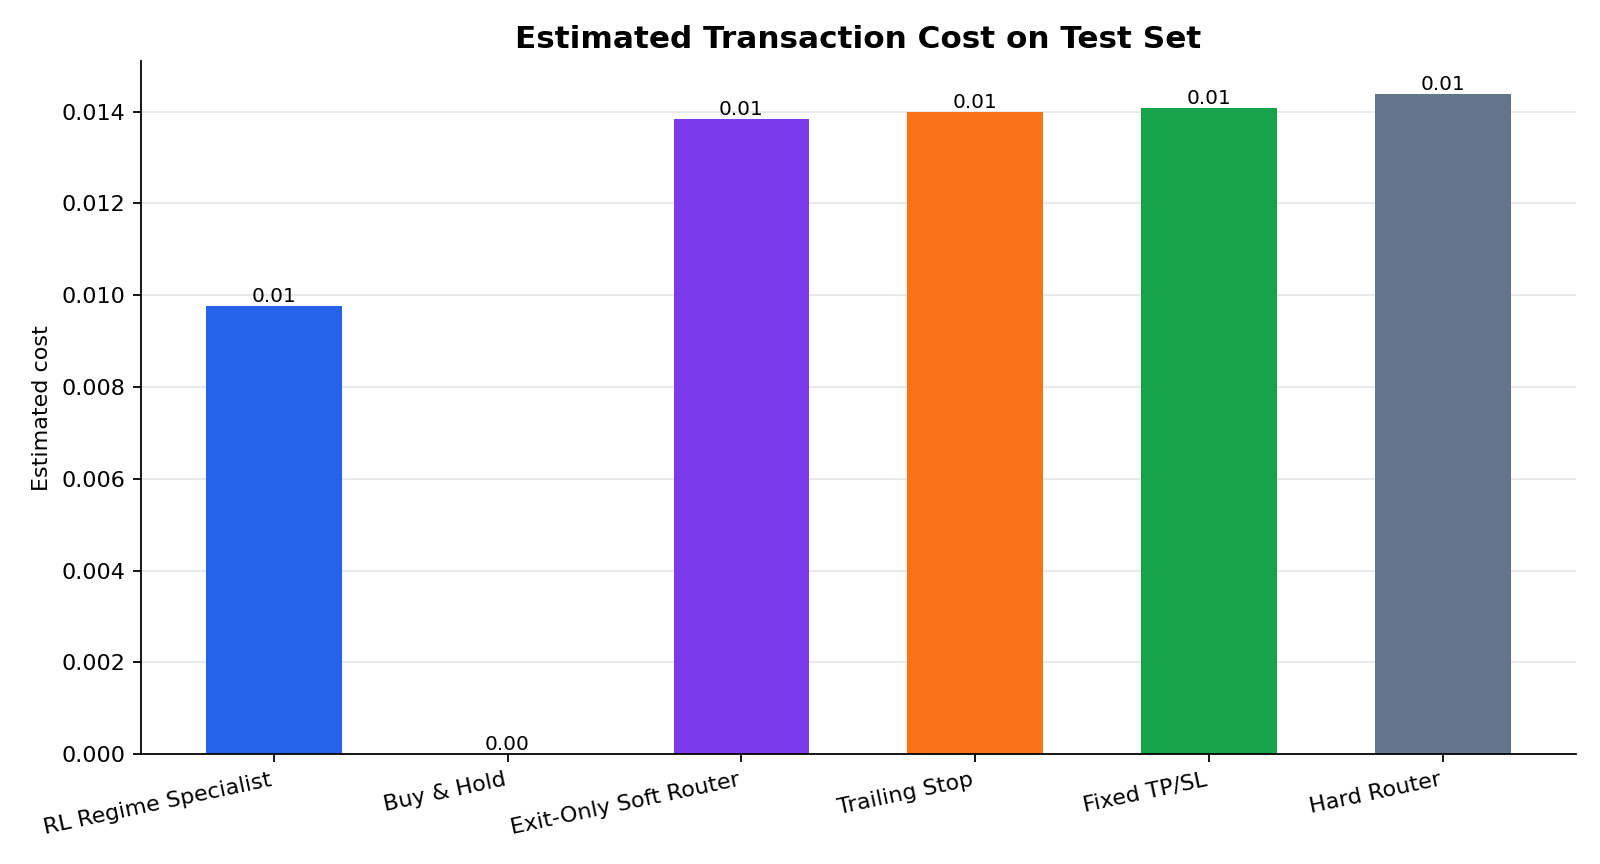
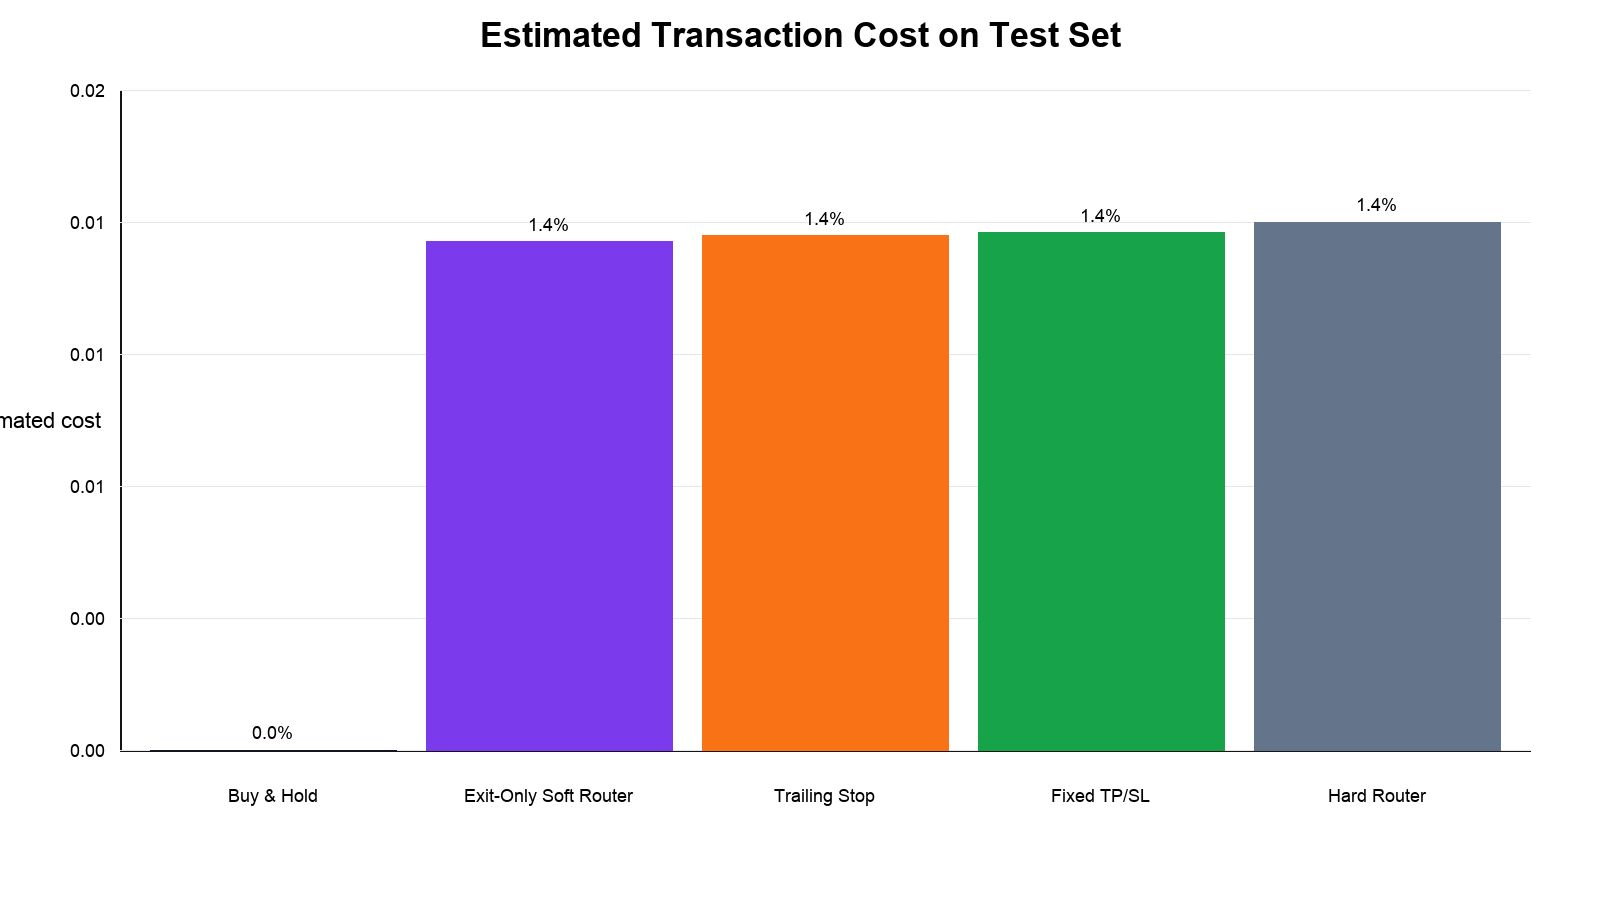
Remove full regime model from benchmark charts

diff --git a/src/regime_visualize.py b/src/regime_visualize.py
@@ -41,6 +41,8 @@ METHOD_COLORS = {
     "hard_router_60": "#64748b",
 }
 
+EXCLUDED_FROM_CHARTS = {"regime_entry_soft_exit"}
+
 
 def _label(method: str) -> str:
     return METHOD_LABELS.get(method, method)
@@ -78,7 +80,7 @@ def _ordered_methods(df: pd.DataFrame) -> list[str]:
         "fixed_tp_sl_60",
         "hard_router_60",
     ]
-    present = set(df["method"])
+    present = set(df["method"]) - EXCLUDED_FROM_CHARTS
     return [method for method in preferred if method in present] + sorted(present - set(preferred))
 
 
@@ -111,6 +113,8 @@ def plot_nav(method_results: dict[str, list[DailyBacktestResult]], output_path: 
 
     fig, ax = plt.subplots(figsize=(11, 6))
     for method, results in method_results.items():
+        if method in EXCLUDED_FROM_CHARTS:
+            continue
         nav = _mean_nav(results)
         ax.plot(nav, label=_label(method), color=_color(method), linewidth=2.2)
     ax.set_title("Average NAV on Test Set After Warmup", fontsize=14, weight="bold")
@@ -161,6 +165,7 @@ def add_estimated_cost(df: pd.DataFrame, cost_bps: float) -> pd.DataFrame:
 def write_visualization_metrics(df: pd.DataFrame, output_path: str | Path) -> str:
     output = Path(output_path)
     output.parent.mkdir(parents=True, exist_ok=True)
+    df = df[~df["method"].isin(EXCLUDED_FROM_CHARTS)].copy()
     columns = [
         "method",
         "total_return",

diff --git a/README.md b/README.md
@@ -272,7 +272,7 @@ The project reports:
 
 ## Visualization
 
-The full buy/sell regime model can now generate research charts for:
+The project can generate research charts for exit-only and benchmark comparisons:
 
 - return
 - NAV / net asset value
@@ -334,25 +334,25 @@ outputs/regime_trading_system_no_take_profit/visualization_metrics.csv
 
 Charts are generated after the 200-day feature warmup. The warmup period is excluded from the plotted NAV so the initial cash-only period does not appear as a misleading straight line.
 
-On this post-warmup test window, `RL Regime Specialist` has lower total return than buy-and-hold, but it also has lower annualized volatility and lower maximum drawdown:
+The charts intentionally exclude the full `RL Regime Specialist` buy/sell model. They focus on comparable benchmark mechanisms:
 
 ```text
-RL Regime Specialist:
-  total return       46.76%
-  annual volatility  16.72%
-  max drawdown      -19.97%
-  Sharpe             0.83
-
-Buy & Hold:
-  total return       66.28%
-  annual volatility  19.45%
-  max drawdown      -21.40%
-  Sharpe             0.84
+Buy & Hold
+Exit-Only Soft Router
+Trailing Stop
+Fixed TP/SL
+Hard Router
 ```
 
-This means the model reduced risk, but in this specific test it did not convert that risk reduction into a higher Sharpe ratio versus buy-and-hold. The more defensible interpretation is: the regime system is a risk-control overlay, not a return maximizer.
+This keeps the visualization from mixing two different questions:
 
-The trade count and estimated cost charts also show the cost of this behavior: the regime system trades more than buy-and-hold, so transaction costs are higher. This is the price paid for active risk control.
+```text
+full buy/sell system quality
+vs.
+exit-only router / rule benchmark quality
+```
+
+The soft router and hard router are both exit-only benchmarks here. They do not choose a real entry point; they are mechanically entered and then decide when to exit.
 
 ## What We Learned So Far
 
